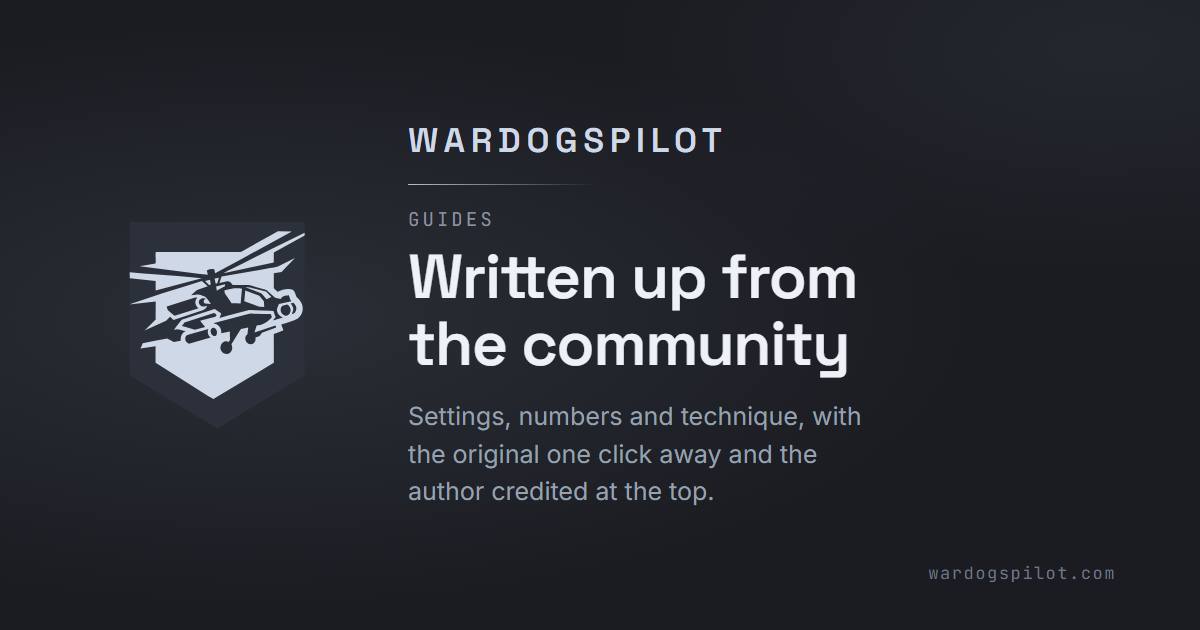
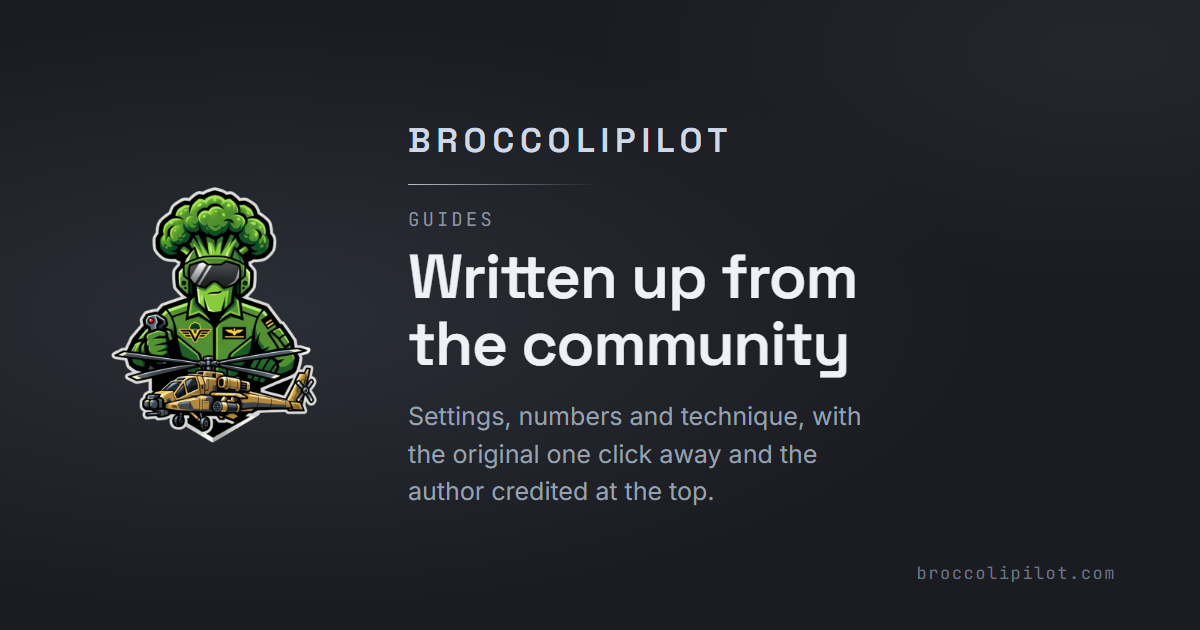
Rebrand to broccolipilot
Someone took the name on YouTube, so the site takes a new one. 49 replacements
across 23 files, plus a new mark.

The mark is cut out of the first frame of the brand animation. ffmpeg's
cropdetect returned the whole frame — the backdrop is a very dark gradient
rather than black, so a luma threshold either keeps the background or eats the
mark's own dark parts — so it is done as a flood fill inward FROM THE BORDER
instead. Only pixels reachable from outside are cleared, which is why the
goggles, the rotor blades and the gun barrel survive: they are genuinely black
and completely enclosed by the white outline. It ships as a 66 KB webp with
alpha, down from a 1 MB png.

Logo.tsx no longer inlines an SVG. The old mark was two-tone so CSS could
recolour it into the luminance palette; this one is a full-colour illustration
and the green is the point. It is an <img> fitted into whatever square box the
call site gives it.

Three things the rename deliberately did NOT touch:

- E:/WARDOGSPILOT — a folder on this machine, not the brand
- tiles. and books.wardogspilot.com, and the buckets behind them — live
  infrastructure that still serves. They move when the new domain does.
- the map-drawing localStorage key. Renaming it outright would have quietly
  discarded every drawing anyone had saved, so the old key is read once and
  rewritten under the new one; each browser migrates itself.

metadataBase now points at broccolipilot.com, which is NOT yet a zone on this
[…]

Changed region(s): [[0.0925, 0.3016, 0.2775, 0.6937], [0.3392, 0.181, 0.6167, 0.2413], [0.7708, 0.9048, 0.8325, 0.9349]]

diff --git a/components/Logo.tsx b/components/Logo.tsx
@@ -1,44 +1,35 @@
 /*
-  The wardogspilot mark, inlined so it can be recoloured from CSS.
+  The broccolipilot mark.
 
-  Structure of the source file: one polygon (`lg-light`) sits behind, and the
-  paths on top are the shield body. The aircraft is the negative space where
-  the shield does not cover the polygon — which is why the two fills below are
-  "light" and "ink" rather than "shield" and "helicopter".
+  It used to be an inline SVG so CSS could recolour it — a two-tone shield that
+  took the system's luminance palette like everything else. This one cannot do
+  that and should not: it is a full-colour illustration, cut out of the first
+  frame of the brand animation, and the green is the brand.
+
+  It is a plain <img> rather than next/image on purpose. This route set is a
+  static export, so there is no image optimiser at runtime, and the file is
+  already a 66 KB webp with an alpha channel — one request, cached, done.
+
+  Sized entirely by its container: every call site wraps it in a square box and
+  `object-fit: contain` keeps the mark's own 4:5 shape inside that box. See
+  .logo in styles/globals.css.
 */
 export default function Logo({
   className = "",
-  title = "wardogspilot",
+  title = "broccolipilot",
 }: {
   className?: string;
   title?: string;
 }) {
   return (
-    <svg
-      viewBox="0 0 1024 1024"
+    // eslint-disable-next-line @next/next/no-img-element
+    <img
       className={`logo ${className}`}
-      role="img"
-      aria-label={title}
-      xmlns="http://www.w3.org/2000/svg"
-    >
-      <g id="Layer_2" data-name="Layer 2">
-      <polygon className="lg-light" points="869.05 749.81 524.66 960.19 180.27 749.81 180.27 145.19 869.05 145.19 869.05 749.81"/>
-      </g>
-      <g id="Layer_1" data-name="Layer 1">
-      <g>
-      <path d="M354.27,570.41l7.04-9.73,23.31-29.94,65.4-21.29,64.53-21.13,26.15,18.04-6.97,17.08,30.29-8.09,86.44-22.62,79.69,2.78,15.97.9,8.49,24.02-10.64,13.43,39.49-12.12c-8.08-3.89-14.47-6.38-18.16-13.25-4.2-7.81-7.32-17.14-3.71-25.5l6.05-13.98,49.5-11.23-4.55-5.48-5.86-18.3c-15.57,1.71-23.57,1.16-31.9,14.67l-18.29-3.45c-3.86-.73-6.37-3.28-9.18-5.81l-29.09-26.19-67.97-18.97-64.58-.19c-7.36-8.19-9.94-15.01-21.82-14.74l-30.23,7.13,7.88-25.59,120.43-21.22,70.84-12.4c10.13-1.77,21.22-2.75,30.85-6.09l67.26-33.99-35.29,37.07-17.48,18.38-30.55,5.19-.04,59.15,14.63,13.27c17.54-8.59,42.22-15.2,60.26-7.96,7.98,6.66,10.54,17.02,13.46,26.68,7.43,7.21,14.17,14.32,19.4,23.57,13.17,23.31,4.71,53.45-18.56,66.56-7.36,4.15-14.81,6.2-22.61,8.72l-20.07,6.48c-5.99,1.93-11.08,2.55-17.42,5.54l8.88,22.56-15.99,6.64-21.99,8.26.06,112.86-167.24,100.32-70.84,42.72-20.99-12.54-116.21-73.5-90.63-57.18.16-58.77.24-6.1-59.68,9.11,8.88-20.65,48.37-9.64,47.88-9.42,26.21,13.49,27.13-4.8c-1.54-15.41,4.04-30.62,19.31-36.68-10.21-3.5-20.15-6.66-30.42-8.35l-15.53,2.28ZM818.4,509.02c7.78-.77,12.98-5.82,15.61-12.56,5.49-14.06,1.23-21.73-9.8-32.22l-9.96,1.98c12.64,17.73,12.6,22.62,4.14,42.81ZM795.06,514.66c8.27,0,14.09-5.74,16.67-12.39,4.94-12.74.12-24.89-11.06-31.9l-15.59,4.2c-11.65,3.14-13.74,20.78-6.6,30.84,3.05,4.3,9.36,9.25,16.58,9.24ZM477.16,559.33l-19.92-24.63,29.2-7.59,31.32-8.65,3.74-4.14c1.85-2.05-2.88-8.37-10.02-10.54l-115.7,37.41-10.03,14.1,11.22,2.5,39.9,12.5,40.29-10.95ZM635.33,604.65c.31,11.9,8.46,21.75,20.26,22.57,6.82.47,12.83-3.57,16.06-7.89,4.24-5.68,4.79-11.32,3.51-18.9l14.69-5.09c4.17-3.87,7.32-8.64,10.77-13.81l56.14-20.34c-.4-3.43-1.3-5.96-2.73-7.99l-82.72,27.7,8.71-27.26c9.25-1.9,18.53-3.33,26.87-7.32,12.97-6.21,23.18-15.84,33.13-25.93l-4.38-12.23-25.48-.59-41.62-.78-12.76-.52-20.17,5.07-126.65,32.95c21.02,3.12,33.92,18.76,31.6,39.95l33.9-7.23.59,32.7-4.76,8.18c-5.37-2-11.52-3.08-16.94-1.13-11.45,4.12-17.11,15.24-15.84,27.49s12.5,21.99,24.74,21.36c8.94-.46,15.58-7.02,18.81-13.16,4.31-8.18,3.14-16.83-.47-24.92l29.66-48.71,7.87-11.21,28.66-6.7-2.87,27.16c-5.72,3.68-8.79,8.84-8.59,16.58ZM522.45,588.45c3-8.3,1.5-16.89-4.49-22.75-2.5-2.45-6.31-4.05-9.65-3.61-2.3.3-5.84,2.65-7.35,5.44-4.96,9.2-.99,21.96,8.23,26.46,5.43,2.65,11.3-.14,13.25-5.55ZM413.23,625.02l85.51-24.66c-11.03-9.05-14.11-20.96-8.73-33.66l-76.34,22.34c-3.4.95-8.28,2.12-10.54,4.34-5.22,5.1-5.38,12.6-3.1,19.3,1.78,5.24,6.18,10.31,13.2,12.33Z"/>
-      <path d="M449.82,349.61l-107.62-13.83-123.37-15.53,62.84-10.86c2.52-14.98-1.7-29.68,1.09-45.16l328.38-.03c5.81,0,9.39-1.91,13.98-4.49l105.42-59.27,33.01-18.08,55.12.73-122.25,67-83.02,45.04-97,52.32-3.31-15.78c-10.21-1.92-20.13-.26-29.43,5.11l4.18,16.76-38.04-3.94Z"/>
-      <path d="M463.62,477.2c7.53,2.31,14.13.99,21.26-1.32-2.06,9.49-8.71,14.52-17.44,17.4l-114.87,37.94-13.61-12.13-15.69,15.92-84.89,38.25,24.25-24.2,19.66-19.15-.11-19.96.22-51.11-96.69,10.4c-5.13.55-5.18.58-5.45.67l128.88-43.12,73.85-23.3,81.28-25.39,23.03,20.98-41.7,14.18c-8.5,6.22-15.88,12.83-23.63,21.42l18.3-2.86c8.89-1.39,16.37-.83,24.61,3.22,4.59,2.26,11.74,3.39,15.36,7.38,7.39,8.14,13.08,16.55,19.55,25.79l-23.15-1.31c-3.75-.21-5.5-6.42-5.25-9.71.18-2.35,1.48-5.82,3.2-6.54,2.02-.84,5.33-.92,8.29-1.2-7.31-5.39-20.72-5.15-27.38,2.61s-1.77,22.08,8.12,25.12ZM342.16,503.52c4.87,4.07,9.12,8.32,14.53,11.78l94.81-30.11c-14.54-11.43-17.68-27.22-5.47-41.45-6.23-2.06-11.51.45-17.61,2.38l-102.41,32.4,1.11,5.8c1.23,6.39,4.25,10.2,9.16,14.29l5.89,4.91Z"/>
-      <path d="M426.8,377.07l-144.54,38.36-.17-37.24-101.82-10.78v-5.33c.77-6.51-1.09-11.65,0-18.13h0l53.43,4.23,136.27,10.69,94.28,8.08-37.45,10.13Z"/>
-      <path d="M549.66,347.74c10.17-7.38,22.11-12.08,33.58-17.85l37.95-19.08,53.88-27.04,61.37-30.7,132.59-65.45v11.54l-121.37,66.43-.24,39.28-197.78,42.88Z"/>
-      <path d="M599.32,465.72l-18.09-.47-26.1-37.66c-2.22-3.21-1.41-9.3-1.41-13.08,9.51-2.39,18.32-5.35,27.79-6.31,13.91-1.41,26.95-1.88,40.99.37l-1.66,13.59-3.92,44.11-17.61-.54Z"/>
-      <path d="M709.84,480.09l-17-.58c-7.11-.24-13.87-4.55-20.56-7.07l-40.92-14.33,3.69-42.61,55.53,20.3,17.95,21.78,1.31,22.52Z"/>
-      <path d="M738.2,441.26l-19.4,8.23-15.79-18.67c-2.93-3.46-5.97-5.29-10.26-6.87l-56.9-20.89c10.08-2.03,19.24.64,28.77,3.13l52.18,13.66,21.39,21.42Z"/>
-      <polygon points="530.99 411.67 523.33 416.38 520.31 399.61 555.67 390.67 555.05 398.55 530.99 411.67"/>
-      <path d="M498.38,391.6c-.55,4.71-6.21,1.52-7.89-.09l-13.58-13,19.46-5.51c1.05,6.2,2.71,12.55,2.01,18.59Z"/>
-      <path d="M526.1,383.33c-.47,1.66-1.75,3.73-2.81,4.22s-4.09.5-4.77.28l-4.2-19.16,16.87-3.5-5.1,18.16Z"/>
-      </g>
-      </g>
-    </svg>
+      src="/logo.webp"
+      alt={title}
+      width={560}
+      height={694}
+      draggable={false}
+    />
   );
 }

diff --git a/styles/globals.css b/styles/globals.css
@@ -1,5 +1,5 @@
 /* =========================================================================
-   wardogspilot.com — an application, not a document.
+   broccolipilot.com — an application, not a document.
 
    The whole viewport is a 3D scene; everything below is HUD chrome layered
    over it. The Lumen Edge design system is imported here ONCE and every
@@ -56,16 +56,24 @@ a.btn { text-decoration: none; }
 /* -------------------------------------------------------------------------
    The mark
    ------------------------------------------------------------------------- */
-.logo { display: block; width: 100%; height: 100%; }
 /*
-  The brand mark is a dark shield with a light aircraft breaking out of it.
-  In the source file the shield is the single `lg-light` polygon and the paths
-  on top are the aircraft. Straight black would vanish against the void, so
-  the shield is lifted just far enough to read as a form and the aircraft
-  takes the Lumen highlight — brand order preserved, contrast recovered.
+  The mark is a raster illustration with an alpha channel, and it is taller
+  than it is wide (4:5). Every call site wraps it in a SQUARE box, so it is
+  fitted rather than stretched — `contain` keeps its proportions and centres it
+  in whatever space the box gives it.
+
+  There is nothing to recolour here. The previous mark was a two-tone SVG that
+  took the system palette; this one is full colour by design, and the green is
+  the brand.
 */
-.logo .lg-light { fill: var(--logo-shield, #2b303b); }
-.logo path, .logo polygon:not(.lg-light) { fill: var(--logo-craft, #cfd8e6); }
+.logo {
+  display: block;
+  width: 100%;
+  height: 100%;
+  object-fit: contain;
+  object-position: center;
+  user-select: none;
+}
 
 /* -------------------------------------------------------------------------
    Loading screen

diff --git a/app/layout.tsx b/app/layout.tsx
@@ -8,24 +8,24 @@ import { ogCard } from "@/lib/og";
 import PageTransition from "@/components/PageTransition";
 
 export const metadata: Metadata = {
-  metadataBase: new URL("https://wardogspilot.com"),
-  title: "wardogspilot — the WARDOGS helicopter reference",
+  metadataBase: new URL("https://broccolipilot.com"),
+  title: "broccolipilot — the WARDOGS helicopter reference",
   description:
     "Everything for flying helicopters in WARDOGS: a 3D maneuver simulator, guides written up from the community's own videos, the creators behind them, and the terminology.",
   openGraph: {
     type: "website",
-    siteName: "wardogspilot",
-    url: "https://wardogspilot.com",
-    title: "wardogspilot — the WARDOGS helicopter reference",
+    siteName: "broccolipilot",
+    url: "https://broccolipilot.com",
+    title: "broccolipilot — the WARDOGS helicopter reference",
     description:
       "A 3D maneuver simulator, community guides with every author credited, and the terminology.",
-    ...ogCard("default", "wardogspilot — the WARDOGS helicopter reference"),
+    ...ogCard("default", "broccolipilot — the WARDOGS helicopter reference"),
   },
   twitter: {
     card: "summary_large_image",
-    ...ogCard("default", "wardogspilot — the WARDOGS helicopter reference"),
+    ...ogCard("default", "broccolipilot — the WARDOGS helicopter reference"),
   },
-  icons: { icon: "/favicon.svg" },
+  icons: { icon: "/favicon.png" },
 };
 
 export const viewport: Viewport = {

diff --git a/components/map/draw.ts b/components/map/draw.ts
@@ -127,11 +127,27 @@ export const newStrokeId = () =>
   the key so a change to the stroke shape can never half-load old data — a
   bumped version simply starts empty.
 */
-const key = (mapId: string) => `wardogspilot:map-draw:v1:${mapId}`;
+const key = (mapId: string) => `broccolipilot:map-draw:v1:${mapId}`;
+
+/*
+  The site used to be called something else, and the key carried that name.
+  Renaming it outright would have quietly thrown away every drawing anyone had
+  saved, so the old key is still read once — and rewritten under the new one,
+  which means each browser migrates itself the first time it opens a map.
+*/
+const legacyKey = (mapId: string) => `wardogspilot:map-draw:v1:${mapId}`;
 
 export function loadStrokes(mapId: string): Stroke[] {
   try {
-    const raw = window.localStorage.getItem(key(mapId));
+    let raw = window.localStorage.getItem(key(mapId));
+    if (!raw) {
+      const old = window.localStorage.getItem(legacyKey(mapId));
+      if (old) {
+        window.localStorage.setItem(key(mapId), old);
+        window.localStorage.removeItem(legacyKey(mapId));
+        raw = old;
+      }
+    }
     if (!raw) return [];
     const parsed: unknown = JSON.parse(raw);
     if (!Array.isArray(parsed)) return [];

diff --git a/app/simulator/page.tsx b/app/simulator/page.tsx
@@ -5,11 +5,11 @@ import { maneuvers } from "@/data/maneuvers";
 import { glossary } from "@/data/glossary";
 
 export const metadata: Metadata = {
-  title: "Simulator — wardogspilot",
+  title: "Simulator — broccolipilot",
   description:
     "Eight WARDOGS helicopter maneuvers flown in 3D with the pilot's collective, cyclic and pedal inputs shown live.",
-  openGraph: ogCard("simulator", "The wardogspilot maneuver simulator"),
-  twitter: ogCard("simulator", "The wardogspilot maneuver simulator"),
+  openGraph: ogCard("simulator", "The broccolipilot maneuver simulator"),
+  twitter: ogCard("simulator", "The broccolipilot maneuver simulator"),
 };
 
 /*
@@ -36,7 +36,7 @@ export default function SimulatorPage() {
       <App />
       <noscript>
         <div style={{ padding: "32px 24px", maxWidth: 760, margin: "0 auto" }}>
-          <h1>wardogspilot — WARDOGS helicopter reference</h1>
+          <h1>broccolipilot — WARDOGS helicopter reference</h1>
           <p>
             The interactive simulator needs JavaScript and WebGL. The reference
             material it contains is summarised here.

diff --git a/styles/home.css b/styles/home.css
@@ -117,7 +117,7 @@ body:has(.home) {
   .home-grid {
     width: min(100%, 1120px);
     /* two rows: 400px gave each card 200px, and every body overflowed it */
-    height: min(100%, 560px);
+    height: min(100%, 540px);
     grid-template-columns: repeat(4, minmax(0, 1fr));
     grid-template-rows: repeat(2, minmax(0, 1fr));
   }
@@ -127,8 +127,20 @@ body:has(.home) {
     below it lost two lines each.
   */
   .home-mark {
-    width: clamp(88px, 14vh, 200px);
-    height: clamp(88px, 14vh, 200px);
+    width: clamp(92px, 16vh, 220px);
+    height: clamp(92px, 16vh, 220px);
+  }
+}
+
+/*
+  Two rows of cards and a mark do not both fit on a short screen. Above ~860px
+  of viewport height the mark gets 16vh; below it, it gives 3vh back, which is
+  exactly the margin the card bodies were short by at 1366x768 and 1280x800.
+*/
+@media (max-width: 1620px) and (max-height: 880px) {
+  .home-mark {
+    width: clamp(88px, 13vh, 200px);
+    height: clamp(88px, 13vh, 200px);
   }
 }
 @media (max-width: 1020px) {

diff --git a/app/pilot-app/page.tsx b/app/pilot-app/page.tsx
@@ -3,11 +3,11 @@ import Link from "next/link";
 import { ogCard } from "@/lib/og";
 
 export const metadata: Metadata = {
-  title: "Pilot App — wardogspilot",
+  title: "Pilot App — broccolipilot",
   description:
     "A desktop companion for WARDOGS pilots. Under development — there is nothing to download yet.",
-  openGraph: ogCard("pilot-app", "The wardogspilot desktop companion"),
-  twitter: ogCard("pilot-app", "The wardogspilot desktop companion"),
+  openGraph: ogCard("pilot-app", "The broccolipilot desktop companion"),
+  twitter: ogCard("pilot-app", "The broccolipilot desktop companion"),
 };
 
 /*
@@ -25,7 +25,7 @@ export default function PilotApp() {
     <main className="soon">
       <p className="soon-word">Under development</p>
       <Link className="soon-back" href="/">
-        wardogspilot
+        broccolipilot
       </Link>
     </main>
   );

diff --git a/app/map/[mapId]/page.tsx b/app/map/[mapId]/page.tsx
@@ -32,12 +32,12 @@ export async function generateMetadata({
   params: Promise<{ mapId: string }>;
 }): Promise<Metadata> {
   const { mapId } = await params;
-  if (!(MAP_IDS as string[]).includes(mapId)) return { title: "Map — wardogspilot" };
+  if (!(MAP_IDS as string[]).includes(mapId)) return { title: "Map — broccolipilot" };
   const data = readData();
   const game = data.maps[mapId as MapId];
   const alt = `Interactive WARDOGS map of ${game.displayName}`;
   return {
-    title: `${game.displayName} map — wardogspilot`,
+    title: `${game.displayName} map — broccolipilot`,
     description: `Interactive WARDOGS map of ${game.displayName}: ${game.zones.length} zones and ${game.markers.length} markers, with filterable layers and shareable views.`,
     openGraph: ogCard("maps", alt),
     twitter: ogCard("maps", alt),

diff --git a/app/terminology/page.tsx b/app/terminology/page.tsx
@@ -6,7 +6,7 @@ import { ogCard } from "@/lib/og";
 import { entries, termCount } from "@/data/glossary";
 
 export const metadata: Metadata = {
-  title: "Terminology — wardogspilot",
+  title: "Terminology — broccolipilot",
   description:
     "Helicopter terminology as WARDOGS uses it: collective, cyclic, yaw, lift vector, crab, flare, J-hook, AGL and ASL — what each word actually means, and the traps in them.",
   openGraph: ogCard("terminology", "WARDOGS helicopter terminology"),
@@ -37,7 +37,7 @@ export default function TerminologyPage() {
             <Logo />
           </span>
           <span>
-            <span className="brand-word">wardogspilot</span>
+            <span className="brand-word">broccolipilot</span>
             <span className="brand-sub">Terminology</span>
           </span>
         </Link>

diff --git a/components/App.tsx b/components/App.tsx
@@ -122,10 +122,10 @@ export default function App() {
       <div className="hud">
         <div className="hud-topleft">
           {/* The mark is the way out of the simulator, back to the four doors. */}
-          <Link className="panel brand" href="/" aria-label="wardogspilot home">
+          <Link className="panel brand" href="/" aria-label="broccolipilot home">
             <span className="logo-wrap"><Logo /></span>
             <span>
-              <span className="brand-word">wardogspilot</span>
+              <span className="brand-word">broccolipilot</span>
               <span className="brand-sub">Rotary flight guide</span>
             </span>
           </Link>

diff --git a/app/videos/page.tsx b/app/videos/page.tsx
@@ -12,11 +12,11 @@ import {
 } from "@/data/creators";
 
 export const metadata: Metadata = {
-  title: "Videos — wardogspilot",
+  title: "Videos — broccolipilot",
   description:
     "Every WARDOGS helicopter video this site was built from, grouped by the creator who made it, with what each channel is good for and a link straight back to them.",
-  openGraph: ogCard("videos", "The creators wardogspilot is built on"),
-  twitter: ogCard("videos", "The creators wardogspilot is built on"),
+  openGraph: ogCard("videos", "The creators broccolipilot is built on"),
+  twitter: ogCard("videos", "The creators broccolipilot is built on"),
 };
 
 /*

diff --git a/app/books/page.tsx b/app/books/page.tsx
@@ -11,11 +11,11 @@ import {
 } from "@/data/books";
 
 export const metadata: Metadata = {
-  title: "Books — wardogspilot",
+  title: "Books — broccolipilot",
   description:
     "The rotary-wing library: the FAA Helicopter Flying Handbook, the Robinson R22 and R44 flight manuals, ICAO radiotelephony and more — the real manuals, free to read.",
-  openGraph: ogCard("guides", "The wardogspilot reference library"),
-  twitter: ogCard("guides", "The wardogspilot reference library"),
+  openGraph: ogCard("guides", "The broccolipilot reference library"),
+  twitter: ogCard("guides", "The broccolipilot reference library"),
 };
 
 /*
